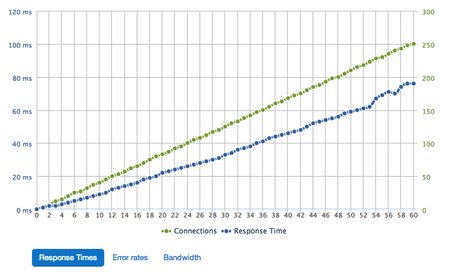
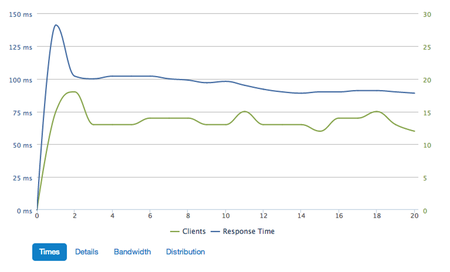
fix bandwidth docs, update graph screenshots, add histogram section to results

Changed region(s): [[0.0, 0.0294, 0.9644, 0.8824], [0.0622, 0.8824, 0.4667, 1.0]]

diff --git a/source/tests/results.md b/source/tests/results.md
@@ -9,12 +9,12 @@ This section shows you a basic summary of the test:
 <img style="float: right;margin-left:7px;" src="../img/loaderio-results-summary.png" alt="Results Summary"/>
 
 - **Date & Time**: when the test ran
-- **Max users**: the maximum number of connections that were made
+- **Max clients**: the maximum number of connections that were made
 - **Duration**: the duration of the test
 - **Success Responses**: total number of successful responses (`1xx`, `2xx`, or `3xx` response codes)
-- **Avg Response Time**: Average time loader waited for a response from your app
-- **Sent from app**: Total amount of data your app sent to loader
-- **Rcvd from loader**: Total amount of data your app received from loader
+- **Avg Time**: Average time loader waited for a response from your app
+- **Rcvd by clients**: Total amount of data we received from your app (response size)
+- **Sent from clients**: Total amount of data we sent to your app (request size)
 - **Timeout errors**: Requests that did not receive a response within the configured [timeout][timeout]
 - **Network Errors**: DNS resolution, TCP connection timeouts, resets, and other transport-layer problems
 - **Errors (400/500)**: Responses returned with an error code (`4xx` and `5xx` response codes)
@@ -24,7 +24,7 @@ This section shows you a basic summary of the test:
 
 There are three graphs that give more detailed information about what is going on during the test: *response times*, *error rates*, and *bandwidth*. On each graph, you can show or hide different parts of the chart by clicking on the label in the key below the graph.
 
-### Response Times <a href="#graphs-response-times" id="graphs-response-times" class="mark">#</a>
+### Times <a href="#graphs-response-times" id="graphs-response-times" class="mark">#</a>
 
 <img style="float: right;margin-left:7px;" src="../img/loaderio-graph-response-times.png" alt="Response times graph"/>
 
@@ -35,13 +35,23 @@ The response times graph displays two lines:
 
 If you look closely, you will also notice that this graph has two vertical axes as well: response time on the left, connections on the right. Don't mix them up!
 
-### Error Rates <a href="#graphs-error-rates" id="graphs-error-rates" class="mark">#</a>
+### Details <a href="#graphs-error-rates" id="graphs-error-rates" class="mark">#</a>
 
 The error rates graph is a slight misnomer; it actually displays success rates as well as errors. The idea here though is to give you an idea about when your app begins to throw errors, when requests start timing out, and so on. If you see only green on this graph, your app is doing well. When it turns yellow, orange, or red then you have some performance tuning (or debugging!) to do :)
 
 ### Bandwidth <a href="#graphs-bandwidth" id="graphs-bandwidth" class="mark">#</a>
 
 This graph just shows how much data was sent from your app, and how much your app received from loader.io. Pretty straightforward!
+
+### Distribution <a href="#graphs-distribution" id="graphs-distribution" class="mark">#</a>
+
+<img style="float: right;margin-left:7px;" src="../img/response_time_hist.png" alt="Response times histogram"/>
+
+For <a href="http://loader.io/pricing">pro users</a> we display a histogram of response times. We group similar response times together into buckets and display them as bars on the histogram. This type of graph shows more information about how your servers are performing than the averages on the other graphs. Here you can see where the majority of your responses lie in relation to the minimum, average, and maximum response times.
+
+For example in the histogram pictured here, the minimum response time was 131ms and the max was 940ms. The histogram shows that very few responses took longer than 600ms.
+
+<div style="clear:both"></div>
 
 ## All Results <a href="#all-results" id="all-results" class="mark">#</a>
 
